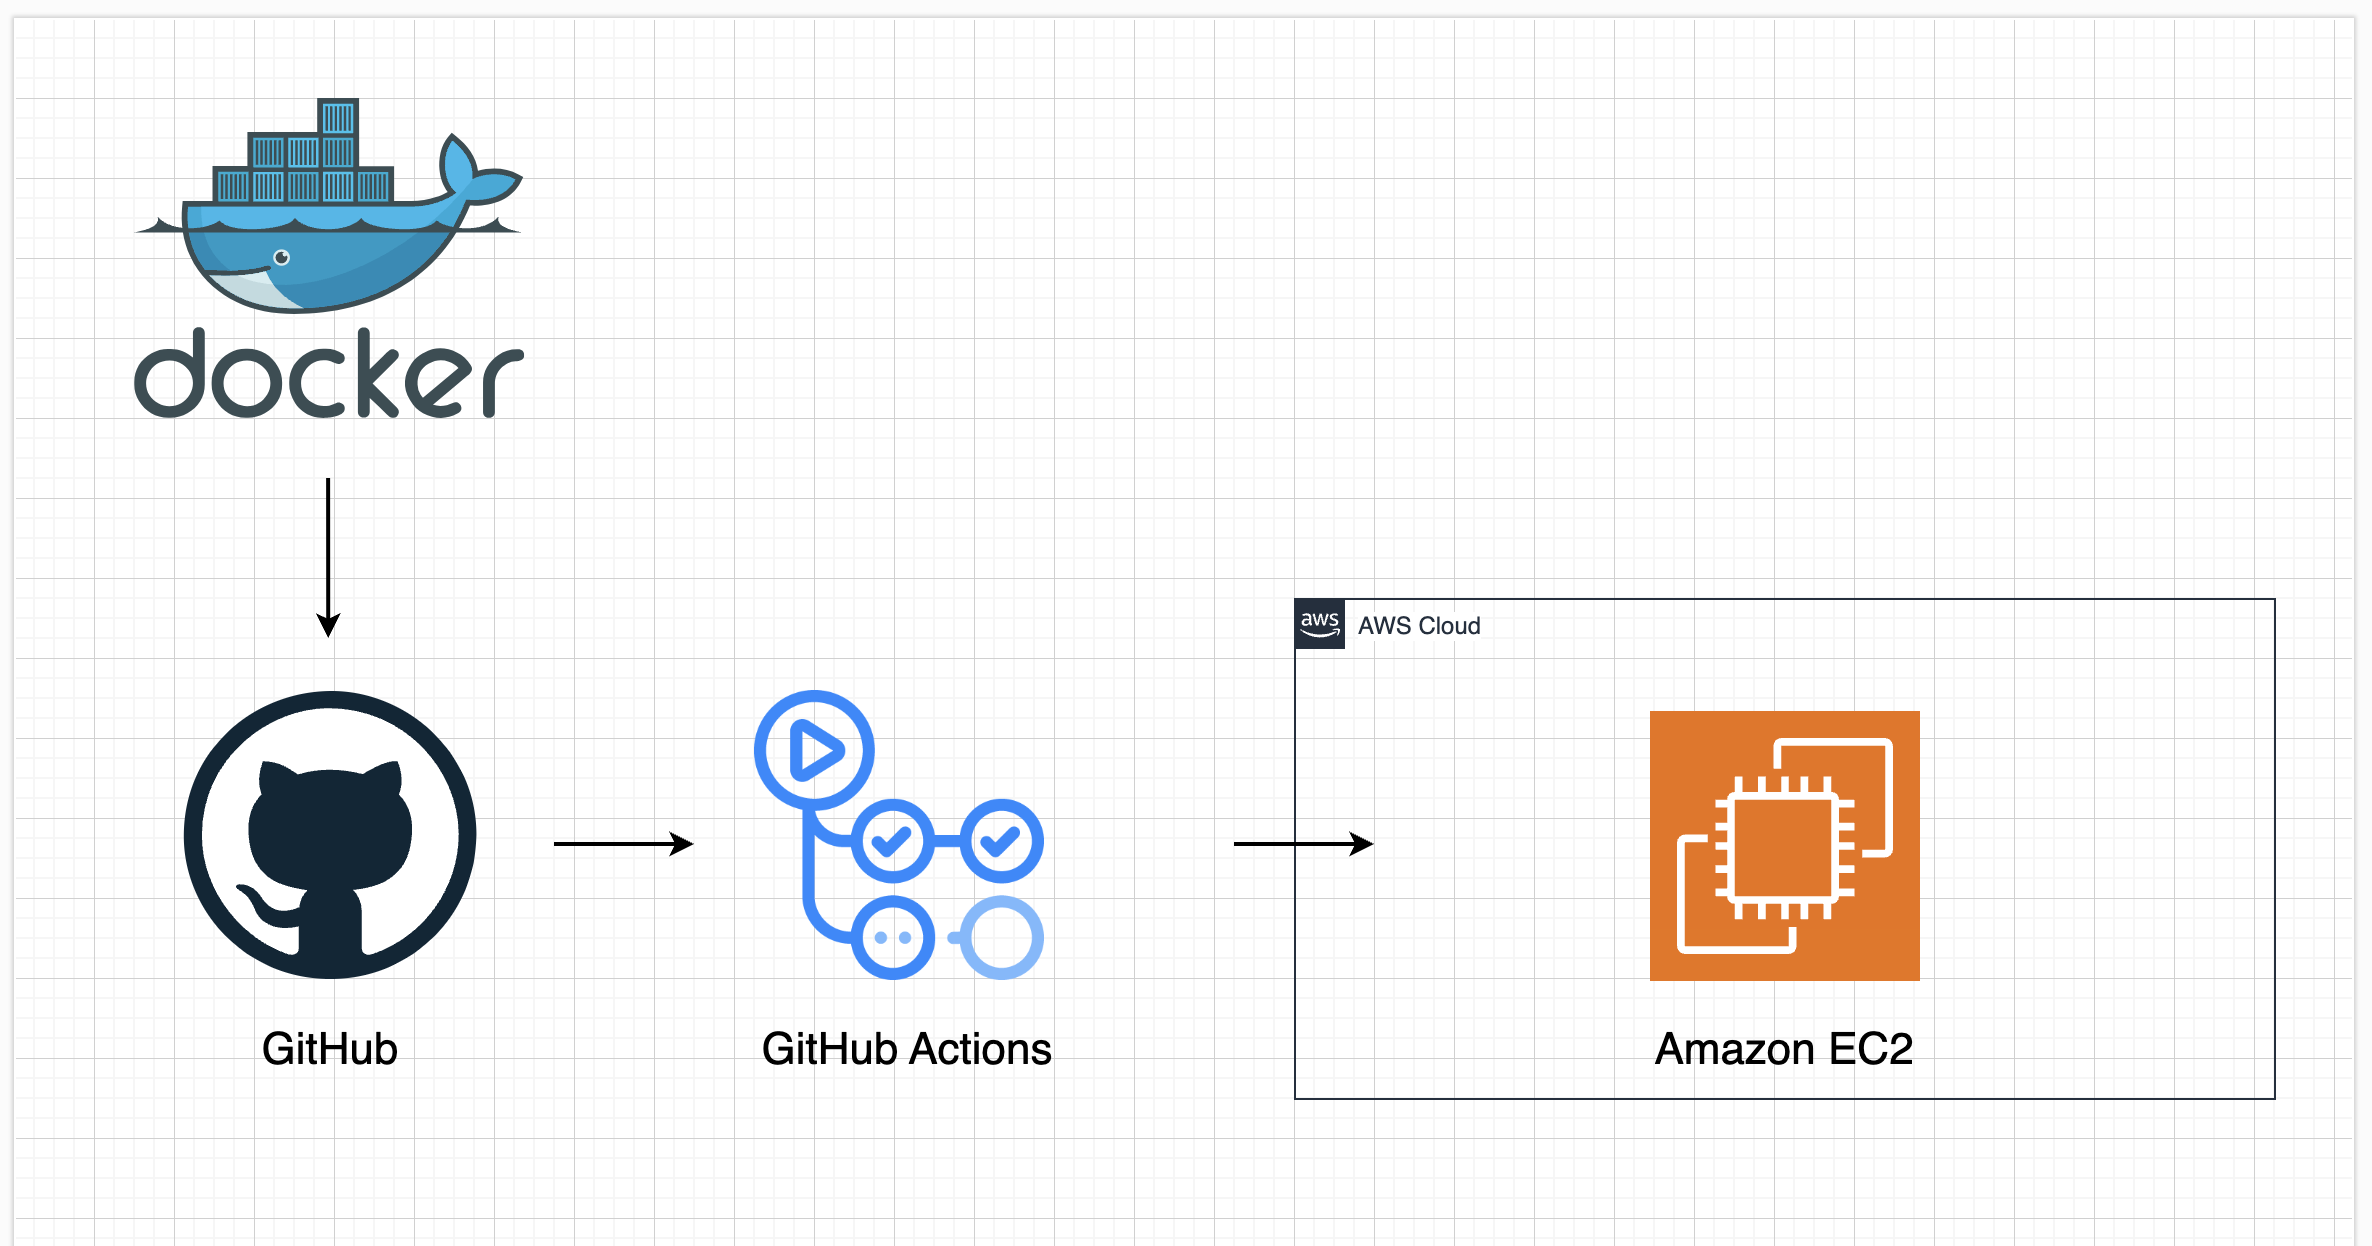
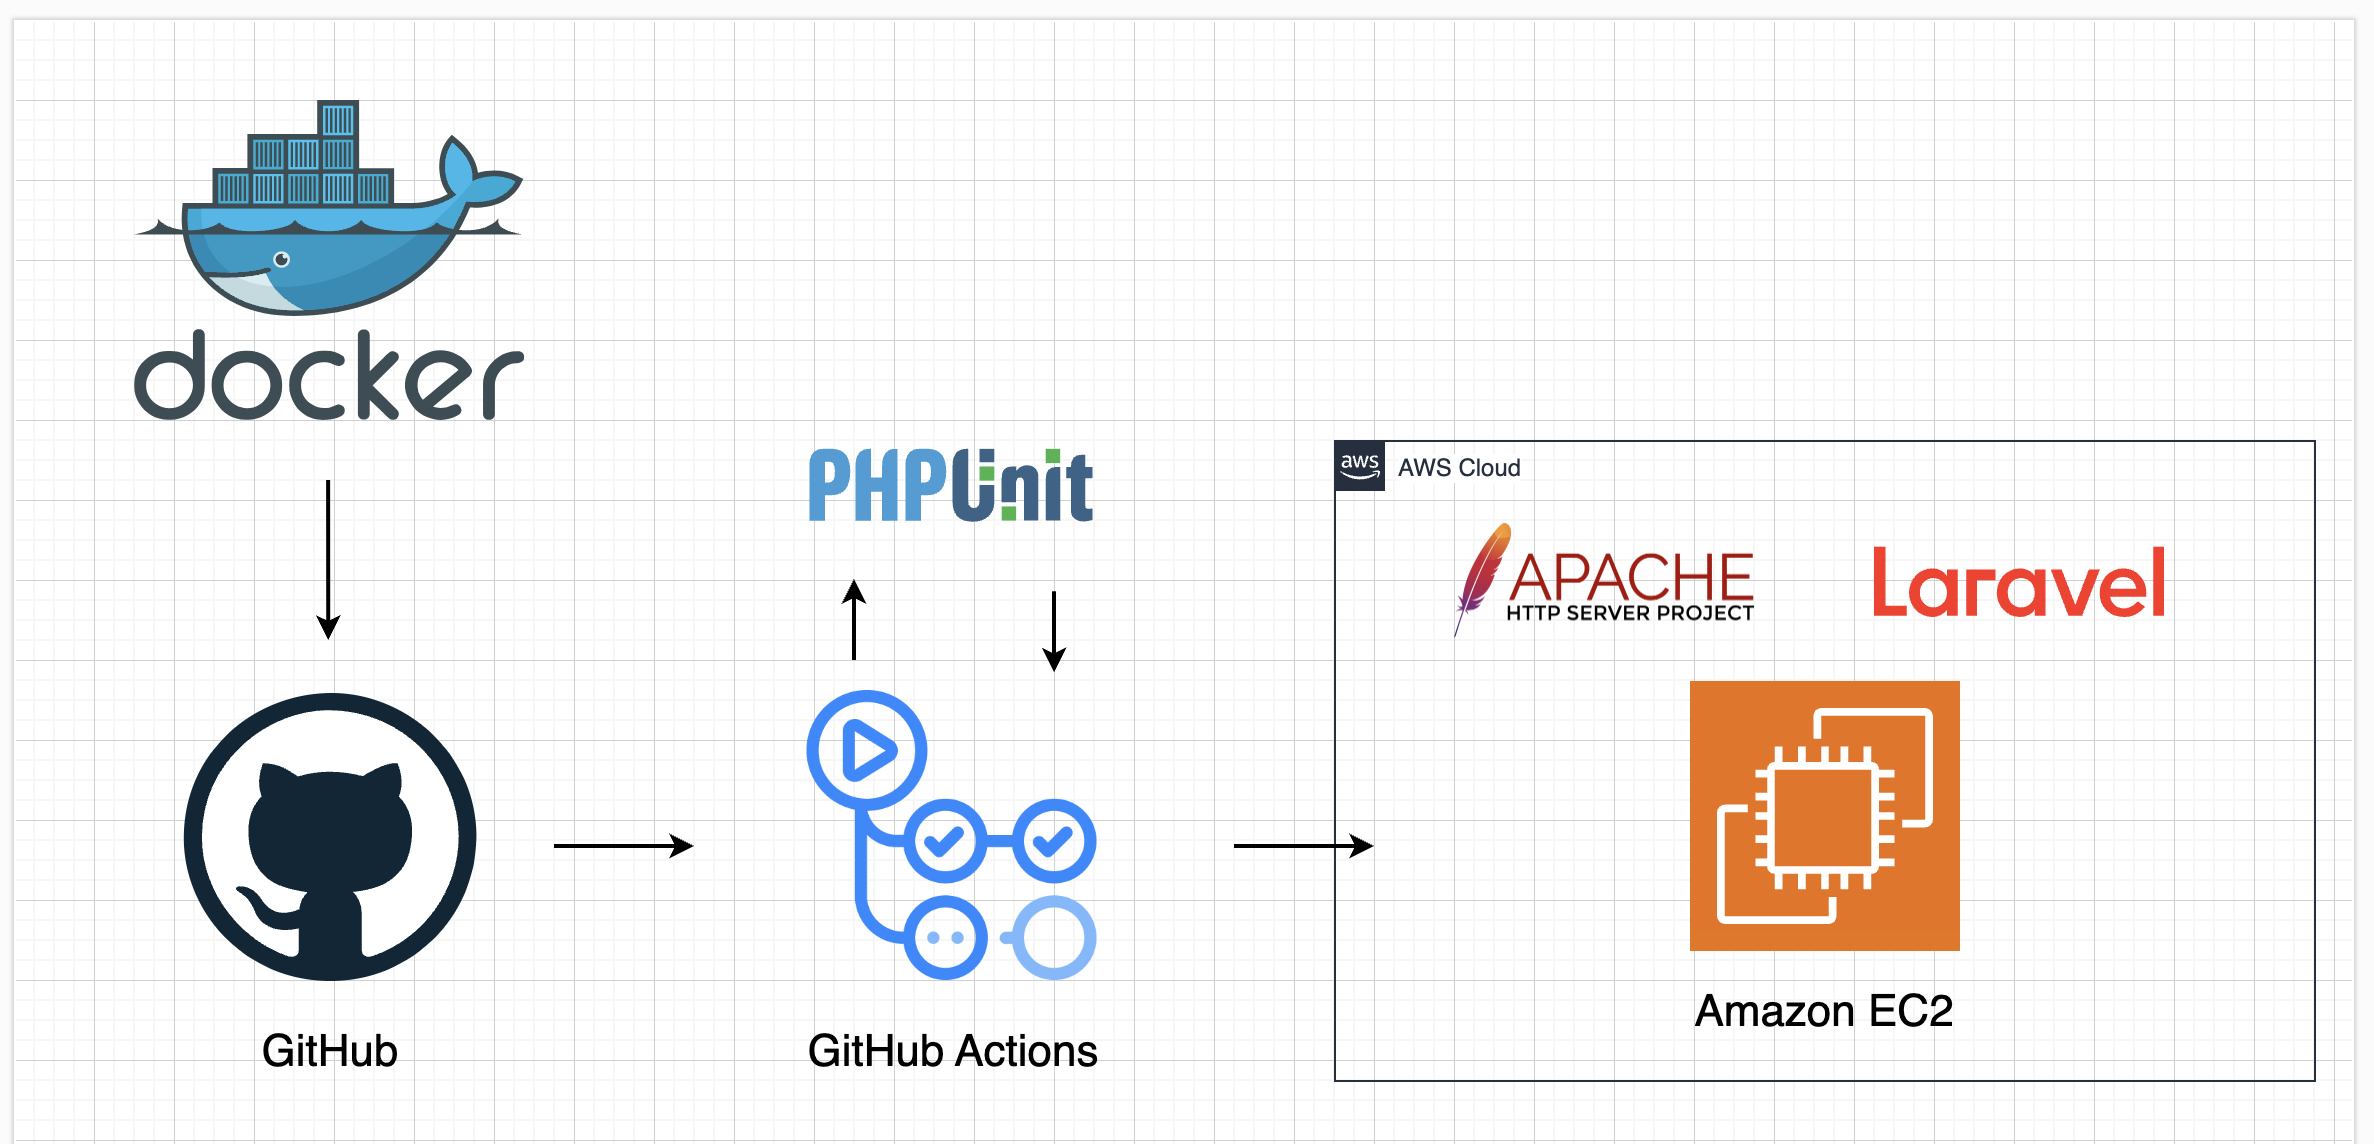
READMEの修正、ymlファイルの修正

diff --git a/src/README.md b/src/README.md
@@ -1,8 +1,21 @@
-![トップページのスクリーンショット](../readme_images/top_image.png)
-![インデックスページのスクリーンショット](../readme_images/index_image.png)
-![詳細ページのスクリーンショット](../readme_images/show_image.png)
+覚えておきたいことなどを、メモするサイトです。<br />
+メモを画像付きで、保存、一部の人に共有できます。 <br />
+レスポンシブ対応しているのでスマホからもご確認いただけます。
+
+### トップ画面
+
+![トップページのスクリーンショット](../readme_images/top_image.png)<br />
+
+### 一覧画面
+
+![インデックスページのスクリーンショット](../readme_images/index_image.png)<br />
+
+### 詳細画面
+
+![詳細ページのスクリーンショット](../readme_images/show_image.png)<br />
 
 # 使用技術
+
 - PHP 8.1
 - Laravel 10
 - Laravel/breeze 1.27
@@ -29,31 +42,37 @@
 - PHPUnit
 
 # AWS構成図
+
 ![AWSのアーキテクチャ図](../readme_images/aws_architecture.png)
 
+Dockerで、ローカル開発環境を整え、<br />
+GitHubで、コード管理を行い、<br />
+GitHub Actionsで、自動的にテストとデプロイを実行。<br />
+本番環境は、AWSのEC2を利用しており、Laravelアプリケーションが、Apacheサーバー上で動作する形です。（Docker上）
+
 # GitHub Actions CI/CD
-- Githubへのpush時に、RspecとRubocopが自動で実行されます。
-- masterブランチへのpushでは、RspecとRubocopが成功した場合、EC2への自動デプロイが実行されます
 
-
-[//]: # (- mainブランチに、mergeした場合)
+- Githubへのdevelopブランチのマージ時に、テストを実行します。
+- テストが成功した場合、EC2へのデプロイが自動で実行されます。
 
 # 機能一覧
+
 - ユーザー登録、ログイン機能（Laravel/breeze）
 - メモ登録機能
-  - タグ登録機能
-  - 画像登録機能
-  - リサイズ（interventionImage）
-  - モーダルウィンドウ（micromodal）
-  - 共有機能
+    - タグ登録機能
+    - 画像登録機能
+    - リサイズ（interventionImage）
+    - モーダルウィンドウ（micromodal）
+    - 共有機能
 - 管理人への問い合わせ機能
 - 管理人ログイン機能（Laravel/breeze）
-  - ユーザーの管理機能
+    - ユーザーの管理機能
 
 - ページネーション機能
 - 検索機能
 
 # テスト
+
 - PHPUnit
-  - 単体テスト
-  - 統合テスト
+    - 単体テスト
+    - 統合テスト
